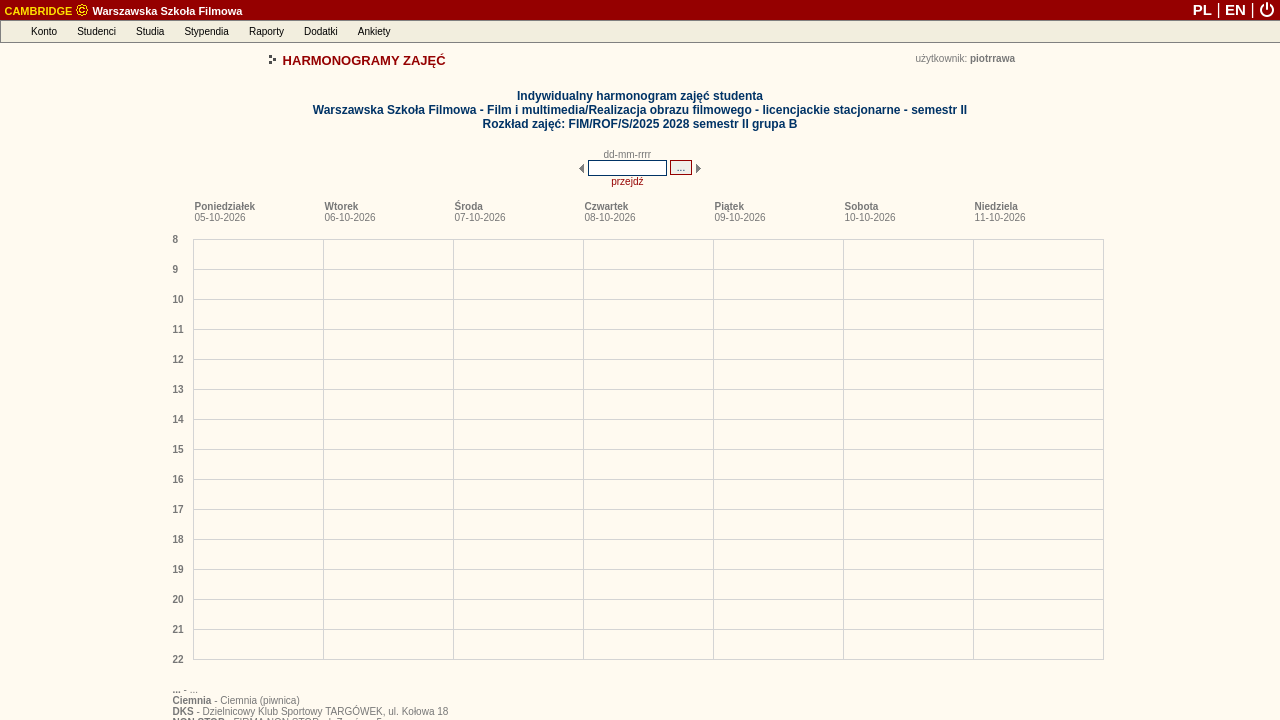
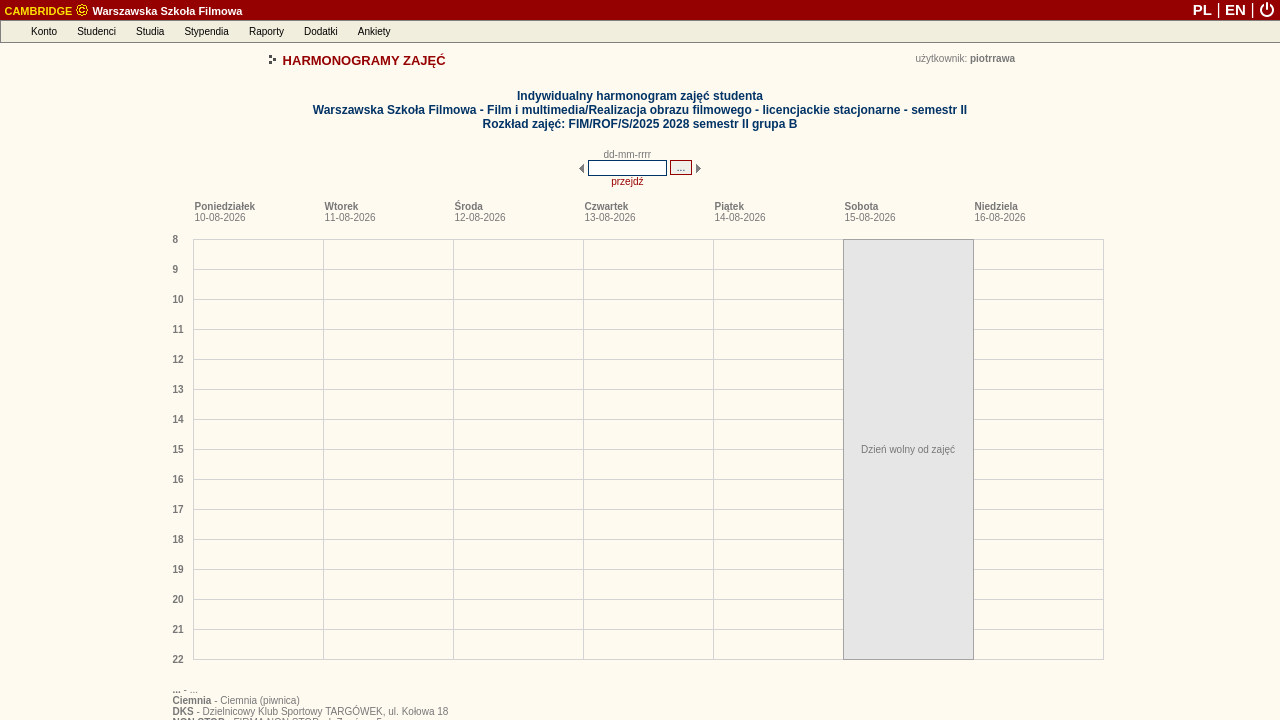
deploy: dfa69d0f82312febb651d8b8e029982c1f68af8a

Changed region(s): [[0.6562, 0.3056, 0.7812, 0.9167], [0.25, 0.275, 0.2812, 0.3056]]

diff --git a/debug_harmonogram_page.html b/debug_harmonogram_page.html
@@ -163,8 +163,8 @@
 
 
 
-<link rel="stylesheet" type="text/css" href="/palio/html.run?_Instance=cambridge&amp;_PageID=4&amp;_SessionID=1726841&amp;_SessionKey=705083851&amp;ZoomView=&amp;DisplayMode=&amp;_CheckSum=754705788">
-<script language="javascript" type="text/javascript" src="/palio/html.run?_Instance=cambridge&amp;_PageID=5&amp;_SessionID=1726841&amp;_SessionKey=705083851&amp;_CheckSum=-1568785362"></script>
+<link rel="stylesheet" type="text/css" href="/palio/html.run?_Instance=cambridge&amp;_PageID=4&amp;_SessionID=1726904&amp;_SessionKey=1624109270&amp;ZoomView=&amp;DisplayMode=&amp;_CheckSum=-2016892715">
+<script language="javascript" type="text/javascript" src="/palio/html.run?_Instance=cambridge&amp;_PageID=5&amp;_SessionID=1726904&amp;_SessionKey=1624109270&amp;_CheckSum=1622920723"></script>
 
 
 
@@ -354,9 +354,9 @@ CambridgeMenuBar = new jsDOMenuBar("absolute", true)
 
 AccountMenu=new jsDOMenu(200, "", "absolute", false);
 
-AccountMenu.addMenuItem(new menuItem("Zmiana hasła", "", "/palio/html.run?_Instance=cambridge&amp;_PageID=11&amp;_SessionID=1726841&amp;_SessionKey=705083851&amp;_CheckSum=1129066653"));
+AccountMenu.addMenuItem(new menuItem("Zmiana hasła", "", "/palio/html.run?_Instance=cambridge&amp;_PageID=11&amp;_SessionID=1726904&amp;_SessionKey=1624109270&amp;_CheckSum=-643012732"));
 
-  AccountMenu.addMenuItem(new menuItem("Komunikator", "", "/palio/html.run?_Instance=cambridge&amp;_PageID=180&amp;_SessionID=1726841&amp;_SessionKey=705083851&amp;_CheckSum=-1529299102"));
+  AccountMenu.addMenuItem(new menuItem("Komunikator", "", "/palio/html.run?_Instance=cambridge&amp;_PageID=180&amp;_SessionID=1726904&amp;_SessionKey=1624109270&amp;_CheckSum=-1447972513"));
 
 
 
@@ -369,7 +369,7 @@ AccountMenu.addMenuItem(new menuItem("Yammer", "", "https://www.yammer.com/onlin
 
 AccountMenu.addMenuItem(new menuItem("-"));
 
-AccountMenu.addMenuItem(new menuItem("Wylogowanie", "", "https://student.szkolafilmowa.pl/palio/html.run?_Instance=cambridge&amp;_PageID=10012&amp;_Action=Logout&amp;_SessionID=1726841&amp;_SessionKey=705083851"));
+AccountMenu.addMenuItem(new menuItem("Wylogowanie", "", "https://student.szkolafilmowa.pl/palio/html.run?_Instance=cambridge&amp;_PageID=10012&amp;_Action=Logout&amp;_SessionID=1726904&amp;_SessionKey=1624109270"));
 
 CambridgeMenuBar.addMenuBarItem(new menuBarItem("Konto", AccountMenu));
 
@@ -382,12 +382,12 @@ StudentsMenu=new jsDOMenu(320, "", "absolute", false);
 
 
 
-StudentsMenu.addMenuItem(new menuItem("Moje dane", "", "/palio/html.run?_Instance=cambridge&amp;_PageID=185&amp;_SessionID=1726841&amp;_SessionKey=705083851&amp;_CheckSum=1622994023"));
+StudentsMenu.addMenuItem(new menuItem("Moje dane", "", "/palio/html.run?_Instance=cambridge&amp;_PageID=185&amp;_SessionID=1726904&amp;_SessionKey=1624109270&amp;_CheckSum=1783833850"));
 
 
 
 
-StudentsMenu.addMenuItem(new menuItem("Moje indeksy", "", "/palio/html.run?_Instance=cambridge&amp;_PageID=186&amp;_SessionID=1726841&amp;_SessionKey=705083851&amp;_CheckSum=-2041514648"));
+StudentsMenu.addMenuItem(new menuItem("Moje indeksy", "", "/palio/html.run?_Instance=cambridge&amp;_PageID=186&amp;_SessionID=1726904&amp;_SessionKey=1624109270&amp;_CheckSum=-146785255"));
 
 
 
@@ -426,7 +426,7 @@ StudiesMenu=new jsDOMenu(250, "", "absolute", false);
 
 
 
-StudiesMenu.addMenuItem(new menuItem("Moje plany studiów", "", "/palio/html.run?_Instance=cambridge&amp;_PageID=258&amp;_SessionID=1726841&amp;_SessionKey=705083851&amp;_CheckSum=996642510"));
+StudiesMenu.addMenuItem(new menuItem("Moje plany studiów", "", "/palio/html.run?_Instance=cambridge&amp;_PageID=258&amp;_SessionID=1726904&amp;_SessionKey=1624109270&amp;_CheckSum=-453193869"));
 
 
 
@@ -434,13 +434,13 @@ StudiesMenu.addMenuItem(new menuItem("Moje plany studiów", "", "/palio/html.run
 
 
 
-StudiesMenu.addMenuItem(new menuItem("Harmonogramy zajęć", "", "/palio/html.run?_Instance=cambridge&amp;_PageID=95&amp;_SessionID=1726841&amp;_SessionKey=705083851&amp;_CheckSum=1090850201"));
+StudiesMenu.addMenuItem(new menuItem("Harmonogramy zajęć", "", "/palio/html.run?_Instance=cambridge&amp;_PageID=95&amp;_SessionID=1726904&amp;_SessionKey=1624109270&amp;_CheckSum=-1827722744"));
 
-StudiesMenu.addMenuItem(new menuItem("Harmonogramy moich zajęć", "", "/palio/html.run?_Instance=cambridge&amp;_PageID=191&amp;_SessionID=1726841&amp;_SessionKey=705083851&amp;_CheckSum=1465507714"));
+StudiesMenu.addMenuItem(new menuItem("Harmonogramy moich zajęć", "", "/palio/html.run?_Instance=cambridge&amp;_PageID=191&amp;_SessionID=1726904&amp;_SessionKey=1624109270&amp;_CheckSum=1196725567"));
 
-StudiesMenu.addMenuItem(new menuItem("Harmonogramy innych zajęć", "", "/palio/html.run?_Instance=cambridge&amp;_PageID=248&amp;_SessionID=1726841&amp;_SessionKey=705083851&amp;_CheckSum=-1367705681"));
+StudiesMenu.addMenuItem(new menuItem("Harmonogramy innych zajęć", "", "/palio/html.run?_Instance=cambridge&amp;_PageID=248&amp;_SessionID=1726904&amp;_SessionKey=1624109270&amp;_CheckSum=-733543758"));
 
-StudiesMenu.addMenuItem(new menuItem("Harmonogramy zajętości sal", "", "/palio/html.run?_Instance=cambridge&amp;_PageID=269&amp;_SessionID=1726841&amp;_SessionKey=705083851&amp;_CheckSum=-303517970"));
+StudiesMenu.addMenuItem(new menuItem("Harmonogramy zajętości sal", "", "/palio/html.run?_Instance=cambridge&amp;_PageID=269&amp;_SessionID=1726904&amp;_SessionKey=1624109270&amp;_CheckSum=-2103463085"));
 
 
 
@@ -470,9 +470,9 @@ CambridgeMenuBar.addMenuBarItem(new menuBarItem("Studia", StudiesMenu));
 ScholarshipsMenu=new jsDOMenu(230, "", "absolute", false);
 
 
-ScholarshipsMenu.addMenuItem(new menuItem("Moje stypendia", "", "/palio/html.run?_Instance=cambridge&amp;_PageID=187&amp;_SessionID=1726841&amp;_SessionKey=705083851&amp;_CheckSum=-1411056023"));
+ScholarshipsMenu.addMenuItem(new menuItem("Moje stypendia", "", "/palio/html.run?_Instance=cambridge&amp;_PageID=187&amp;_SessionID=1726904&amp;_SessionKey=1624109270&amp;_CheckSum=-2077404360"));
 
-ScholarshipsMenu.addMenuItem(new menuItem("Mój numer rachunku", "", "/palio/html.run?_Instance=cambridge&amp;_PageID=380&amp;_SessionID=1726841&amp;_SessionKey=705083851&amp;_CheckSum=-968599324"));
+ScholarshipsMenu.addMenuItem(new menuItem("Mój numer rachunku", "", "/palio/html.run?_Instance=cambridge&amp;_PageID=380&amp;_SessionID=1726904&amp;_SessionKey=1624109270&amp;_CheckSum=-1246148579"));
 
 
 
@@ -482,9 +482,9 @@ ScholarshipsMenu.addMenuItem(new menuItem("Mój numer rachunku", "", "/palio/htm
 ScholarshipsMenu.addMenuItem(new menuItem("-"));
 
 
-ScholarshipsMenu.addMenuItem(new menuItem("Fundusze stypendialne", "", "/palio/html.run?_Instance=cambridge&amp;_PageID=54&amp;_SessionID=1726841&amp;_SessionKey=705083851&amp;_CheckSum=-407066596"));
+ScholarshipsMenu.addMenuItem(new menuItem("Fundusze stypendialne", "", "/palio/html.run?_Instance=cambridge&amp;_PageID=54&amp;_SessionID=1726904&amp;_SessionKey=1624109270&amp;_CheckSum=-1018503195"));
 
-ScholarshipsMenu.addMenuItem(new menuItem("Rodzaje stypendiów", "", "/palio/html.run?_Instance=cambridge&amp;_PageID=55&amp;_SessionID=1726841&amp;_SessionKey=705083851&amp;_CheckSum=223392029"));
+ScholarshipsMenu.addMenuItem(new menuItem("Rodzaje stypendiów", "", "/palio/html.run?_Instance=cambridge&amp;_PageID=55&amp;_SessionID=1726904&amp;_SessionKey=1624109270&amp;_CheckSum=1345844996"));
 
 
 
@@ -495,7 +495,7 @@ CambridgeMenuBar.addMenuBarItem(new menuBarItem("Stypendia", ScholarshipsMenu));
 ReportsMenu=new jsDOMenu(200, "", "absolute", false);
 
 
-ReportsMenu.addMenuItem(new menuItem("Generowanie raportów", "", "/palio/html.run?_Instance=cambridge&amp;_PageID=68&amp;_SessionID=1726841&amp;_SessionKey=705083851&amp;_CheckSum=184148799"));
+ReportsMenu.addMenuItem(new menuItem("Generowanie raportów", "", "/palio/html.run?_Instance=cambridge&amp;_PageID=68&amp;_SessionID=1726904&amp;_SessionKey=1624109270&amp;_CheckSum=129304866"));
 
 
 
@@ -505,7 +505,7 @@ CambridgeMenuBar.addMenuBarItem(new menuBarItem("Raporty", ReportsMenu));
 
 AdditionalsMenu=new jsDOMenu(200, "", "absolute", false);
 
-AdditionalsMenu.addMenuItem(new menuItem("Forum internetowe", "", "/palio/html.run?_Instance=cambridge&amp;_PageID=8001&amp;_SessionID=1726841&amp;_SessionKey=705083851&amp;_CheckSum=1684183542"));
+AdditionalsMenu.addMenuItem(new menuItem("Forum internetowe", "", "/palio/html.run?_Instance=cambridge&amp;_PageID=8001&amp;_SessionID=1726904&amp;_SessionKey=1624109270&amp;_CheckSum=-614258357"));
 
 
 
@@ -539,7 +539,7 @@ PollsMenu=new jsDOMenu(225, "", "absolute", false);
 
 
 
-PollsMenu.addMenuItem(new menuItem("Wypełnianie ankiet", "", "/palio/html.run?_Instance=cambridge&amp;_PageID=227&amp;_SessionID=1726841&amp;_SessionKey=705083851&amp;_CheckSum=1863073904"));
+PollsMenu.addMenuItem(new menuItem("Wypełnianie ankiet", "", "/palio/html.run?_Instance=cambridge&amp;_PageID=227&amp;_SessionID=1726904&amp;_SessionKey=1624109270&amp;_CheckSum=636375569"));
 
 
 CambridgeMenuBar.addMenuBarItem(new menuBarItem("Ankiety", PollsMenu));
@@ -576,7 +576,7 @@ CambridgeMenuBar.moveTo(0,20);
 <table width="100%" border="0" cellspacing="0" cellpadding="0" align="center">
 <tbody><tr class="top_belt">
 
-<td align="left" height="20"><b>&nbsp;<a class="belt" href="/palio/html.run?_Instance=cambridge&amp;_PageID=6&amp;_SessionID=1726841&amp;_SessionKey=705083851&amp;_CheckSum=-938326737"><span class="belt_application">CAMBRIDGE</span> <img src="/palio/html.media?_Instance=cambridge&amp;_Option=Palio&amp;_ID=51&amp;_CheckSum=684598873" width="14" height="14" border="0" style="position:relative;top:-2px;vertical-align:bottom"> Warszawska Szkoła Filmowa</a></b></td>
+<td align="left" height="20"><b>&nbsp;<a class="belt" href="/palio/html.run?_Instance=cambridge&amp;_PageID=6&amp;_SessionID=1726904&amp;_SessionKey=1624109270&amp;_CheckSum=-307698382"><span class="belt_application">CAMBRIDGE</span> <img src="/palio/html.media?_Instance=cambridge&amp;_Option=Palio&amp;_ID=51&amp;_CheckSum=684598873" width="14" height="14" border="0" style="position:relative;top:-2px;vertical-align:bottom"> Warszawska Szkoła Filmowa</a></b></td>
 <td align="right">
 
 
@@ -587,13 +587,13 @@ CambridgeMenuBar.moveTo(0,20);
 
 
 
-<a href="/palio/html.run?_Instance=cambridge&amp;_PageID=6&amp;_SessionID=1726841&amp;_SessionKey=705083851&amp;SetLanguage=pl&amp;_CheckSum=-1699922805" class="belt" style="font-size:15px;line-height:18px;text-decoration:none" title="polski"><b>PL</b></a>
+<a href="/palio/html.run?_Instance=cambridge&amp;_PageID=6&amp;_SessionID=1726904&amp;_SessionKey=1624109270&amp;SetLanguage=pl&amp;_CheckSum=-835182680" class="belt" style="font-size:15px;line-height:18px;text-decoration:none" title="polski"><b>PL</b></a>
 <span class="belt" style="font-size:16px">|</span>
-<a href="/palio/html.run?_Instance=cambridge&amp;_PageID=6&amp;_SessionID=1726841&amp;_SessionKey=705083851&amp;SetLanguage=en&amp;_CheckSum=192860478" class="belt" style="font-size:15px;line-height:18px;text-decoration:none" title="english"><b>EN</b></a>
+<a href="/palio/html.run?_Instance=cambridge&amp;_PageID=6&amp;_SessionID=1726904&amp;_SessionKey=1624109270&amp;SetLanguage=en&amp;_CheckSum=1057600603" class="belt" style="font-size:15px;line-height:18px;text-decoration:none" title="english"><b>EN</b></a>
 <span class="belt" style="font-size:16px">|</span>
 
 
-<img src="/palio/html.media?_Instance=cambridge&amp;_Option=Palio&amp;_ID=94&amp;_CheckSum=-1316787974" style="cursor:pointer;vertical-align:bottom;margin-bottom:2px;margin-right:5px" alt="Wyloguj" title="Wyloguj" onclick="if(confirm('Czy na pewno chcesz się wylogować?'))window.location='https://student.szkolafilmowa.pl/palio/html.run?_Instance=cambridge&amp;_PageID=10012&amp;_Action=Logout&amp;_SessionID=1726841&amp;_SessionKey=705083851'">
+<img src="/palio/html.media?_Instance=cambridge&amp;_Option=Palio&amp;_ID=94&amp;_CheckSum=-1316787974" style="cursor:pointer;vertical-align:bottom;margin-bottom:2px;margin-right:5px" alt="Wyloguj" title="Wyloguj" onclick="if(confirm('Czy na pewno chcesz się wylogować?'))window.location='https://student.szkolafilmowa.pl/palio/html.run?_Instance=cambridge&amp;_PageID=10012&amp;_Action=Logout&amp;_SessionID=1726904&amp;_SessionKey=1624109270'">
 </td>
 
 </tr>
@@ -2351,16 +2351,16 @@ document.schedule_scroll_form.submit();
 }
 function goForward()
 {
-document.schedule_scroll_form._firstDayOfWeek.value = '12-10-2026';
+document.schedule_scroll_form._firstDayOfWeek.value = '17-08-2026';
 document.schedule_scroll_form.submit();
 }
 function goBackward()
 {
-document.schedule_scroll_form._firstDayOfWeek.value = '03-10-2026';
+document.schedule_scroll_form._firstDayOfWeek.value = '08-08-2026';
 document.schedule_scroll_form.submit();
 }
 </script>
-<form method="post" name="schedule_scroll_form" id="schedule_scroll_form" action="/palio/html.run?_Instance=cambridge&amp;_PageID=191&amp;_SessionID=1726841&amp;_SessionKey=705083851&amp;_RowID=6987&amp;_RowIDType=I&amp;_CheckSum=-616287673" onsubmit="return checkFrm_schedule_scroll_form(this)">
+<form method="post" name="schedule_scroll_form" id="schedule_scroll_form" action="/palio/html.run?_Instance=cambridge&amp;_PageID=191&amp;_SessionID=1726904&amp;_SessionKey=1624109270&amp;_RowID=6987&amp;_RowIDType=I&amp;_CheckSum=-391649238" onsubmit="return checkFrm_schedule_scroll_form(this)">
 <div style="display:none;"><input type="hidden" name="_formSubmitted" value="yes"></div>
 <input type="hidden" name="_firstDayOfWeek">
 <table cellspacing="0" cellpadding="0" border="0" align="center">
@@ -3202,6 +3202,22 @@ return true;
 
 
 
+
+
+
+
+
+
+
+
+
+
+
+
+
+
+
+
 <br>
 
 
@@ -3213,6 +3229,9 @@ return true;
 
 
 
+ 
+ 
+ 
 
 
 
@@ -3265,6 +3284,52 @@ return true;
 
 
 
+
+
+
+
+
+
+
+
+
+
+
+
+
+
+
+
+
+
+
+
+
+
+
+
+
+
+
+
+
+
+
+
+
+
+
+
+
+
+
+
+
+
+
+
+
+  
 
 
 
@@ -3723,7 +3788,7 @@ tipDivElement.style.visibility="hidden"
 <tbody><tr><td class="font">
 <b class="font">Poniedziałek</b><br>
 
-<span class="font">05-10-2026</span>
+<span class="font">10-08-2026</span>
 </td></tr>
 </tbody></table>
 </div>
@@ -3738,7 +3803,7 @@ tipDivElement.style.visibility="hidden"
 <tbody><tr><td class="font">
 <b class="font">Wtorek</b><br>
 
-<span class="font">06-10-2026</span>
+<span class="font">11-08-2026</span>
 </td></tr>
 </tbody></table>
 </div>
@@ -3753,7 +3818,7 @@ tipDivElement.style.visibility="hidden"
 <tbody><tr><td class="font">
 <b class="font">Środa</b><br>
 
-<span class="font">07-10-2026</span>
+<span class="font">12-08-2026</span>
 </td></tr>
 </tbody></table>
 </div>
@@ -3768,7 +3833,7 @@ tipDivElement.style.visibility="hidden"
 <tbody><tr><td class="font">
 <b class="font">Czwartek</b><br>
 
-<span class="font">08-10-2026</span>
+<span class="font">13-08-2026</span>
 </td></tr>
 </tbody></table>
 </div>
@@ -3783,7 +3848,7 @@ tipDivElement.style.visibility="hidden"
 <tbody><tr><td class="font">
 <b class="font">Piątek</b><br>
 
-<span class="font">09-10-2026</span>
+<span class="font">14-08-2026</span>
 </td></tr>
 </tbody></table>
 </div>
@@ -3798,7 +3863,7 @@ tipDivElement.style.visibility="hidden"
 <tbody><tr><td class="font">
 <b class="font">Sobota</b><br>
 
-<span class="font">10-10-2026</span>
+<span class="font">15-08-2026</span>
 </td></tr>
 </tbody></table>
 </div>
@@ -3813,7 +3878,7 @@ tipDivElement.style.visibility="hidden"
 <tbody><tr><td class="font">
 <b class="font">Niedziela</b><br>
 
-<span class="font">11-10-2026</span>
+<span class="font">16-08-2026</span>
 </td></tr>
 </tbody></table>
 </div>
@@ -3822,6 +3887,34 @@ tipDivElement.style.visibility="hidden"
 
 
 
+
+
+
+
+
+
+
+
+
+
+
+
+
+
+<div style="
+position:absolute;
+top:0;
+left:670;
+width:129;
+height:419.00;
+layer-background-color:#E6E6E6;
+background-color:#E6E6E6;
+border:1px solid #A4A4A4;
+z-index:0;">
+<table cellspacing="0" cellpadding="0" align="center" width="129">
+<tbody><tr><td width="129" align="center" class="font" valign="middle" height="419.00">Dzień wolny od zajęć</td></tr>
+</tbody></table>
+</div>
 
 
 </div>
@@ -3848,8 +3941,8 @@ tipDivElement.style.visibility="hidden"
 <td align="right">
 <table cellspacing="0" cellpadding="2" border="0">
 <tbody><tr>
-<td valign="middle"><a class="link" href="/palio/html.run?_Instance=cambridge&amp;_PageID=96&amp;_SessionID=1726841&amp;_SessionKey=705083851&amp;_RowID=6987&amp;_RowIDType=I&amp;_firstDayOfWeek=05-10-2026&amp;_CheckSum=299163163" target="_blank">drukuj</a></td>
-<td valign="middle"><a class="link" href="/palio/html.run?_Instance=cambridge&amp;_PageID=96&amp;_SessionID=1726841&amp;_SessionKey=705083851&amp;_RowID=6987&amp;_RowIDType=I&amp;_firstDayOfWeek=05-10-2026&amp;_CheckSum=299163163" target="_blank"><img src="/palio/html.media?_Instance=cambridge&amp;_Option=Palio&amp;_ID=26&amp;_CheckSum=1936112049" awidth="16" height="14" alt="drukuj" title="drukuj" border="0"></a></td>
+<td valign="middle"><a class="link" href="/palio/html.run?_Instance=cambridge&amp;_PageID=96&amp;_SessionID=1726904&amp;_SessionKey=1624109270&amp;_RowID=6987&amp;_RowIDType=I&amp;_firstDayOfWeek=10-08-2026&amp;_CheckSum=-362277961" target="_blank">drukuj</a></td>
+<td valign="middle"><a class="link" href="/palio/html.run?_Instance=cambridge&amp;_PageID=96&amp;_SessionID=1726904&amp;_SessionKey=1624109270&amp;_RowID=6987&amp;_RowIDType=I&amp;_firstDayOfWeek=10-08-2026&amp;_CheckSum=-362277961" target="_blank"><img src="/palio/html.media?_Instance=cambridge&amp;_Option=Palio&amp;_ID=26&amp;_CheckSum=1936112049" awidth="16" height="14" alt="drukuj" title="drukuj" border="0"></a></td>
 </tr>
 </tbody></table>
 </td>
@@ -3881,7 +3974,7 @@ tipDivElement.style.visibility="hidden"
 
 
 
-<input type="button" name="jump_action" value="Powrót do listy harmonogramów zajęć" class="button" onclick="window.location='/palio/html.run?_Instance=cambridge&amp;_PageID=191&amp;_SessionID=1726841&amp;_SessionKey=705083851&amp;_CheckSum=1465507714'">
+<input type="button" name="jump_action" value="Powrót do listy harmonogramów zajęć" class="button" onclick="window.location='/palio/html.run?_Instance=cambridge&amp;_PageID=191&amp;_SessionID=1726904&amp;_SessionKey=1624109270&amp;_CheckSum=1196725567'">
 
 
 
@@ -3906,7 +3999,7 @@ tipDivElement.style.visibility="hidden"
 grayscaleImagesIE10Plus();
 </script>
 
-<p align="right" class="font"><i style="color:#aaaaaa">Czas generowania strony 127 ms</i></p>
+<p align="right" class="font"><i style="color:#aaaaaa">Czas generowania strony 94 ms</i></p>
 
 
 </body></html>
